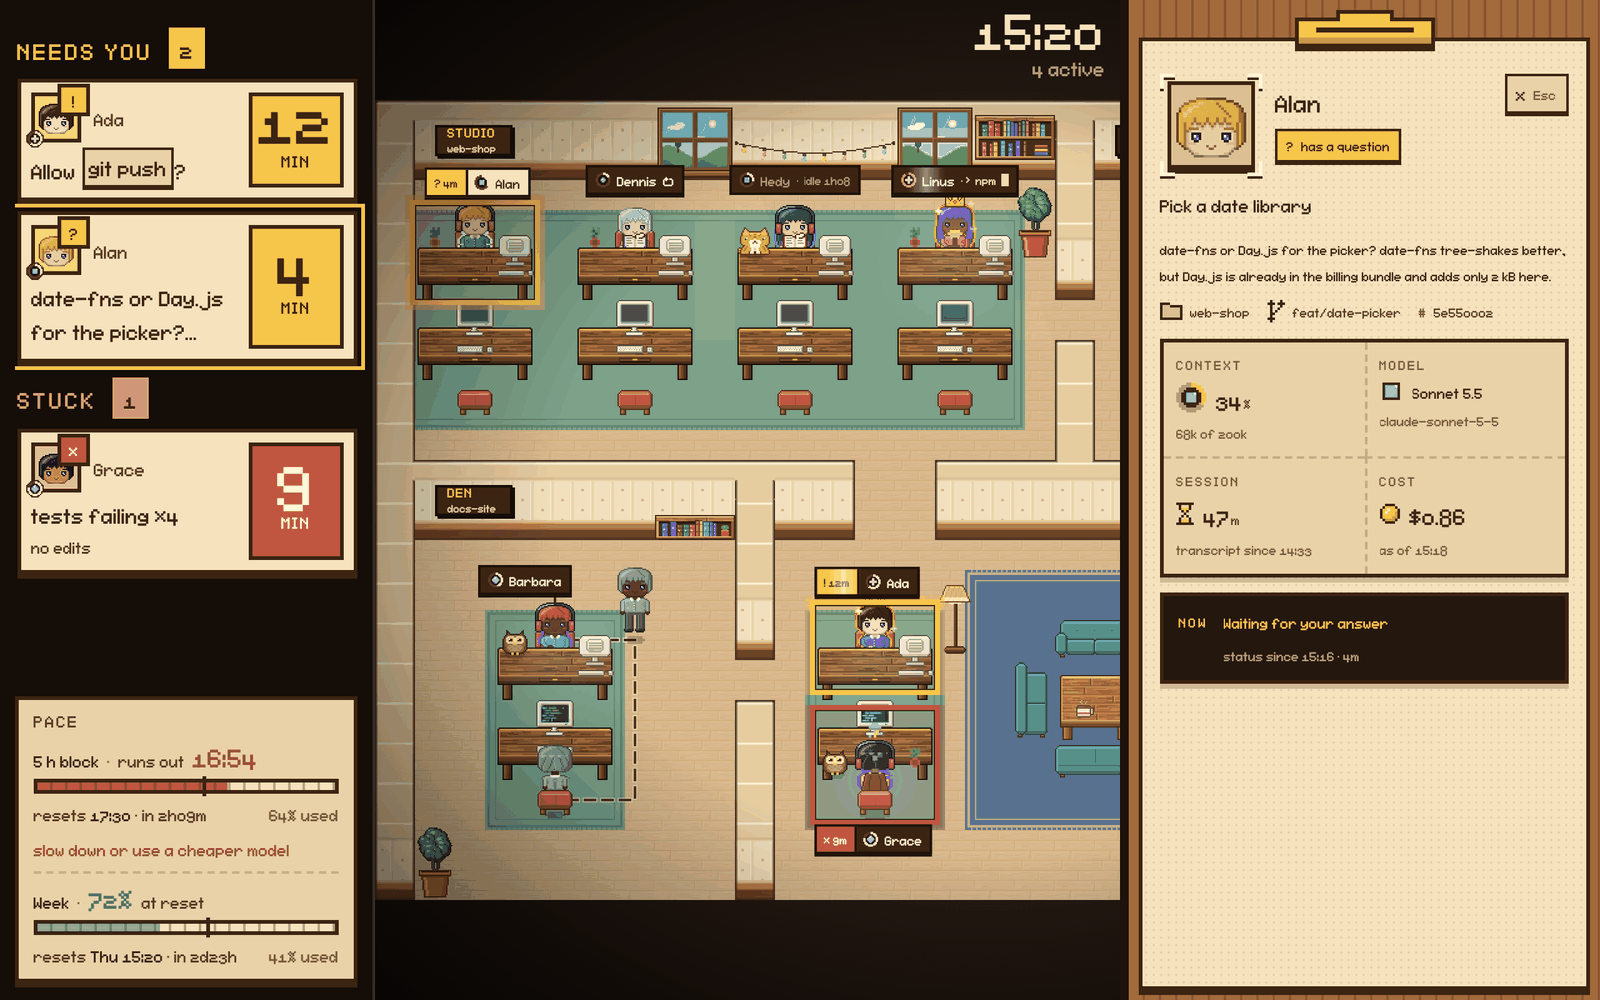
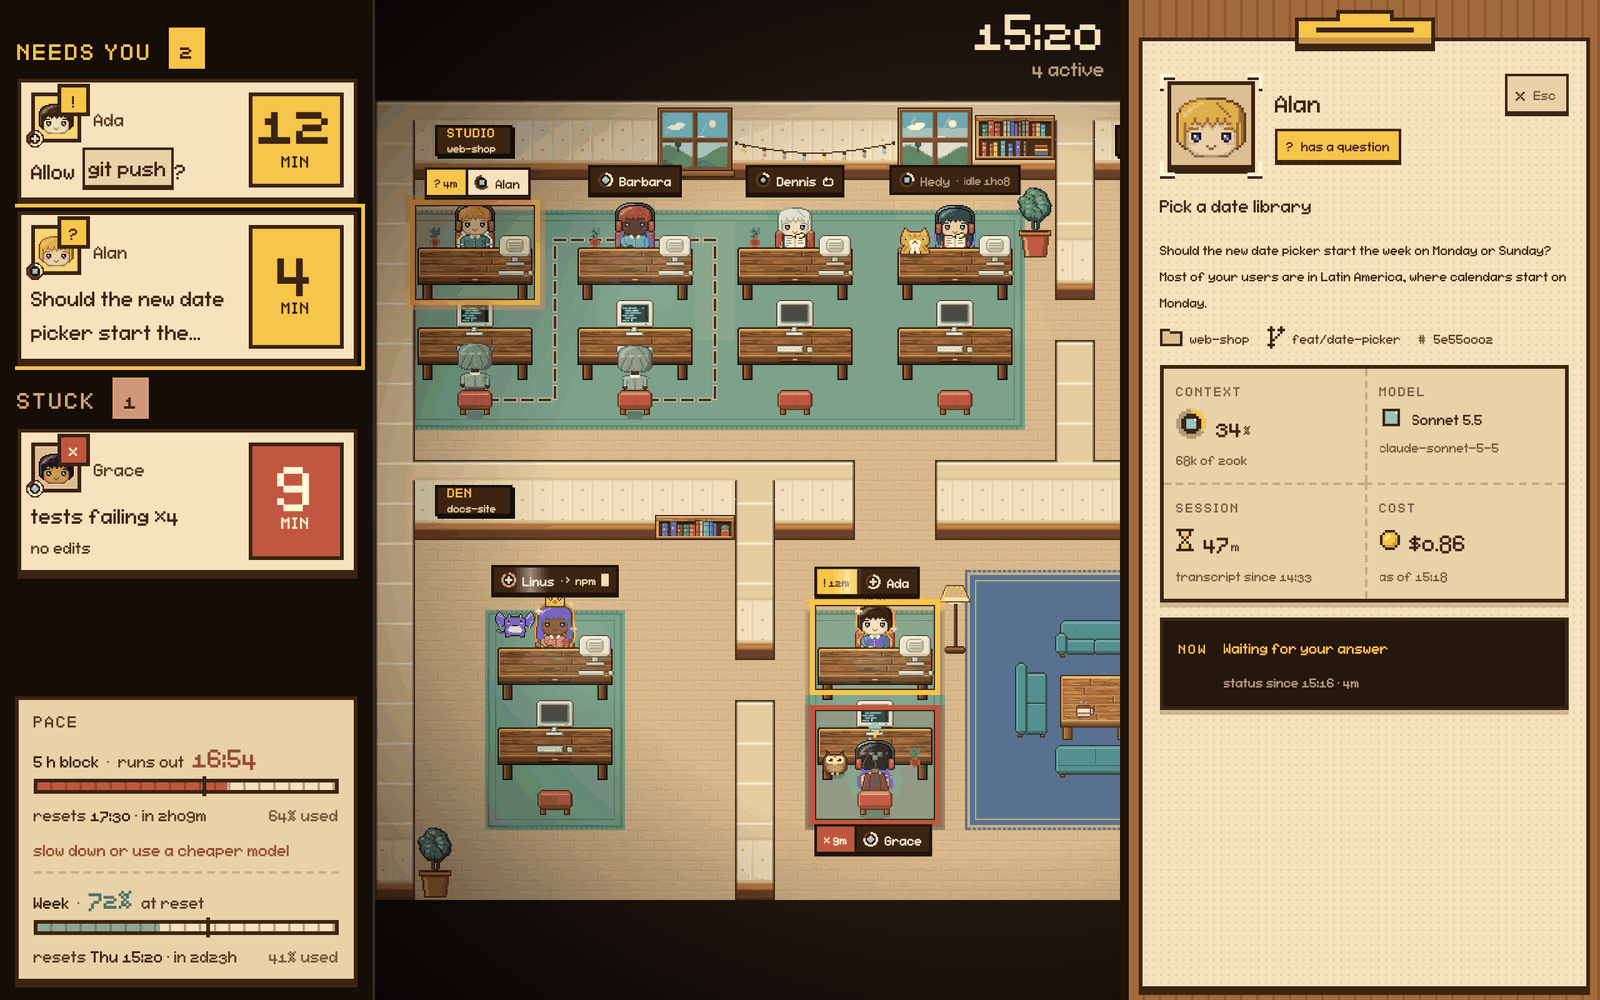
Use a simpler question in the README shots

diff --git a/README.md b/README.md
@@ -26,7 +26,7 @@ Your office is copied from `~/.pixel-agents` on first run; nothing there is chan
 
 ## Who needs you
 
-<img src="docs/images/needs-you.png" alt="The rail: Ada waits 12 minutes on Allow git push, Alan asks date-fns or Day.js for the picker, Grace is stuck on failing tests; their desks are lit in the office" width="880">
+<img src="docs/images/needs-you.png" alt="The rail: Ada waits 12 minutes on Allow git push, Alan asks whether the date picker should start the week on Monday or Sunday, Grace is stuck on failing tests; their desks are lit in the office" width="880">
 
 The rail lists the sessions waiting on you and lights their desks. A permission prompt names its command; a question shows its own words. A session that is stuck, looping or stalled is named too.
 
@@ -48,7 +48,7 @@ Turns, tool calls and sub-agents pay nothing. `roster.json` holds counts only.
 
 ## Every session on one screen
 
-<img src="docs/images/inspector-question.png" alt="Alan selected: the inspector shows his whole question, date-fns or Day.js for the picker, with the reasons, then context, model, session time and cost" width="880">
+<img src="docs/images/inspector-question.png" alt="Alan selected: the inspector shows his whole question, Monday or Sunday for the date picker, and why it matters, then context, model, session time and cost" width="880">
 
 Enter opens the inspector: the whole question the rail cuts to two lines, then context, model, branch, cost, helpers and workflow phases. Tripwires are alerts, they block nothing.
 
